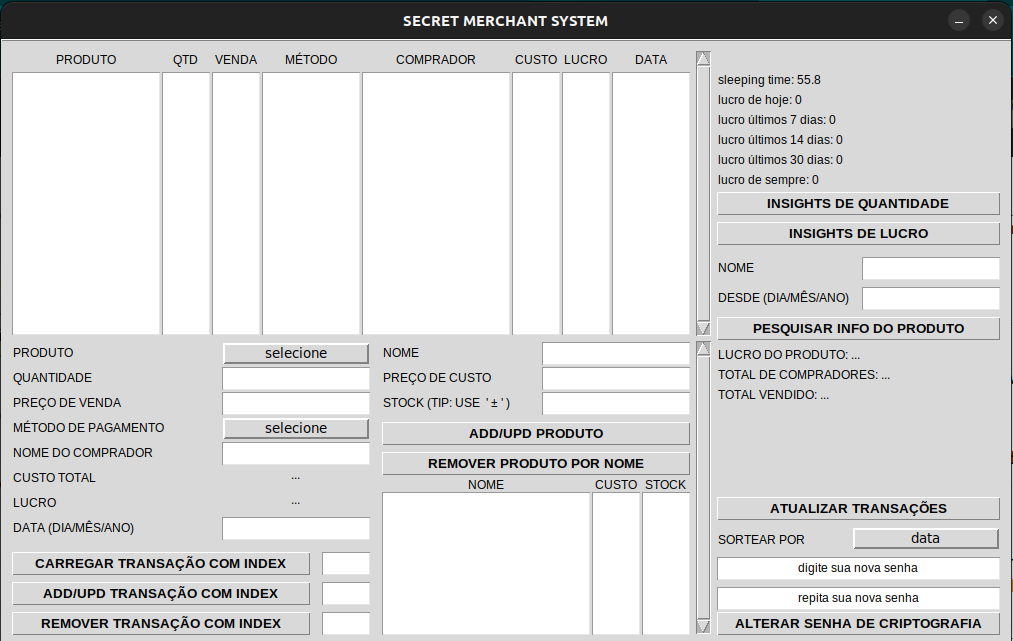
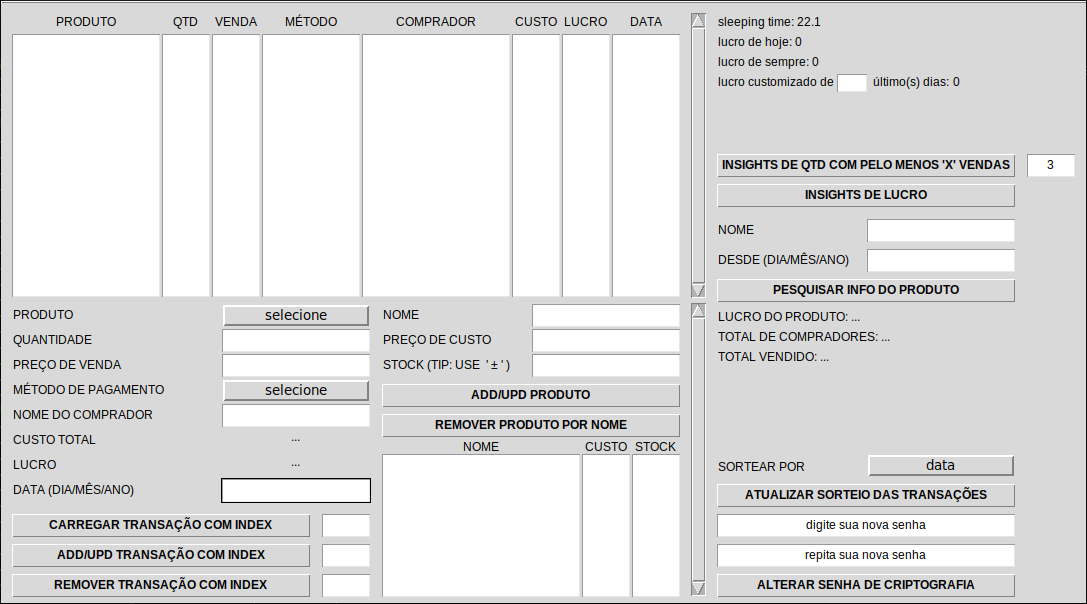
custom profit value replaced, fixed bug where trades index broke, new readme interface picture

diff --git a/scripts/interface.py b/scripts/interface.py
@@ -145,8 +145,8 @@ class Interface:
         self.main_menu.profit_custom.place(x = 715, y = 70)
         self.main_menu.profit_custom_entry = tk.Entry(self.main_root, font = self.entrylabel_font, justify = "center")
         self.main_menu.profit_custom_entry.place(x = 835, y = 70, width = 32, height = 20)
-        self.main_menu.profit_custom_value = tk.Label(self.main_root, text = "678.82", font = self.entrylabel_font)
-        self.main_menu.profit_custom_value.place(x = 920, y = 70)
+        self.main_menu.profit_custom_value = tk.Label(self.main_root, text = "...", font = self.entrylabel_font)
+        self.main_menu.profit_custom_value.place(x = 950, y = 70)
         #insights
         self.main_menu.insight_button_qtd = tk.Button(self.main_root, text = "INSIGHTS DE QTD COM PELO MENOS 'X' VENDAS", font = self.button_font, command = lambda *args : Interface.show_temp_matplot_pie_chart(Interface.get_trades_qtd_insights(), "quantity_insights"))
         self.main_menu.insight_button_qtd.place(x = 715, y = 150, width = 300, height = 25)
@@ -543,7 +543,8 @@ class Interface:
                         pass
                 else:
                     new_trade = {}
-                    new_trade['id'] = len(Vars.trades)
+                    new_trade['id'] = Vars.next_trade_id
+                    Vars.next_trade_id += 1
                     new_trade['product'] = product_name
                     new_trade['quantity'] = quantity
                     new_trade['sell_price'] = sell_price

diff --git a/scripts/loader.py b/scripts/loader.py
@@ -32,6 +32,7 @@ class Loader:
                 line = Encryption.password_decrypt(line, Vars.encryption_key)
                 new_trade = {'product':line.split(",")[0], 'quantity':float(line.split(",")[1]), 'sell_price':float(line.split(",")[2]), 'payment_method':line.split(",")[3], 'buyer_name':line.split(",")[4], 'total_cost':float(line.split(",")[5]), 'profit':float(line.split(",")[6]), 'transaction_date':line.split(",")[7], 'encrypted_line':encrypted_line}
                 new_trade['unix_date'] = Interface.get_date_timestamp(new_trade['transaction_date'])
-                new_trade['id'] = index
+                new_trade['id'] = Vars.next_trade_id
+                Vars.next_trade_id += 1
                 Vars.trades.append(new_trade)
             print()

diff --git a/scripts/variables.py b/scripts/variables.py
@@ -8,4 +8,5 @@ class Vars:
     max_sleep_time = 180
     min_insight_valid_qtd_qtd = 3
     custom_profit_days = 0
+    next_trade_id = 0
     months_to_number = {'jan':1, 'janeiro':1, 'feb':2, 'fev':2, 'fevereiro':2, 'mar':3, 'março':3, 'apr':4, 'abr':4, 'abril':4, 'may':5, 'mai':5, 'maio':5, 'jun':6, 'junho':6, 'jul':7, 'julho':7, 'aug':8, 'ago':8, 'agosto':8, 'sep':9, 'set':9, 'setembro':9, 'oct':10, 'out':10, 'outubro':10, 'nov':11, 'novembro':11, 'dec':12, 'dez':12, 'dezembro':12}
